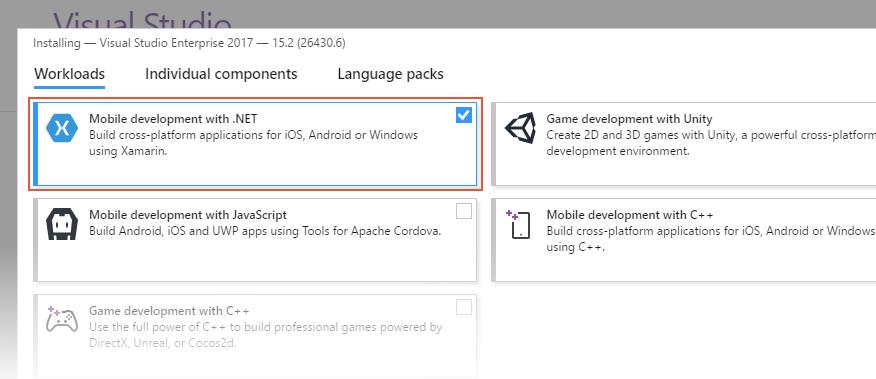
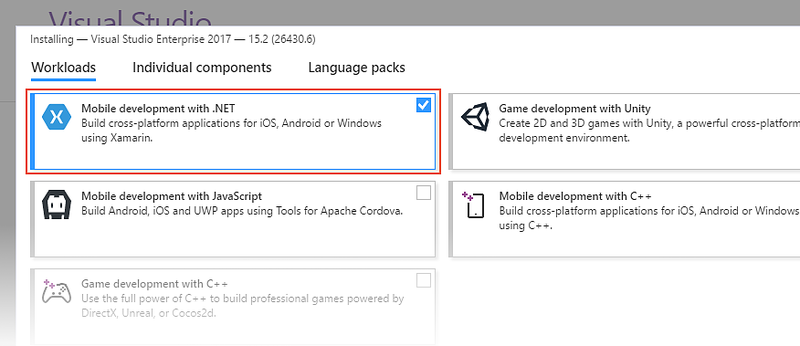
Updates to text, screens in the "Installing Xamarin in Visual Studio 2017" doc (#606)
* Updating the Xamarin installation for VS2017 doc

* Fixed a grammar error.

* Updated screenshot

* Updated some alt text

* Removed some unnecessary text

* Updated screenshot from VS2015 -> VS2017

* Text modification

diff --git a/docs/cross-platform/get-started/installation/windows.md b/docs/cross-platform/get-started/installation/windows.md
@@ -5,12 +5,9 @@ ms.prod: xamarin
 ms.assetid: E20D4463-368E-4B60-A059-F50DB8C5552D
 author: asb3993
 ms.author: amburns
-ms.date: 09/29/2017
+ms.date: 08/28/2018
 ---
-
 # Installing Xamarin in Visual Studio 2017
-
-<a name="requirements" />
 
 ## Requirements
 
@@ -22,11 +19,9 @@ The following are required for installing Xamarin in Visual Studio 2017:
 
 3. Xamarin for Visual Studio.
 
-For more information about the pre-requisites for installing
-and using Xamarin, see 
+For more information about the prerequisites for installing
+and using Xamarin, see
 [System Requirements](~/cross-platform/get-started/requirements.md).
-
-<a name="installation" />
 
 ## Installation
 
@@ -41,41 +36,35 @@ To achieve this, use the following steps:
 2. Double-click the downloaded package to start installation.
 
 3. Select the **Mobile development with .NET** workload from the
-   installation screen: 
+   installation screen:
 
-    [![Mobile development with .NET selection on the Workloads screen](windows-images/01-mobile-dev-workload-sml.png)](windows-images/01-mobile-dev-workload.png#lightbox)
+    ![Mobile development with .NET selection on the Workloads screen](windows-images/01-mobile-dev-workload.png "Mobile development with .NET selection on the Workloads screen)
 
 4. While **Mobile development with .NET** is selected, have a look at
-   the **Summary** panel on the right. Here, you can deselect mobile
-   development options that you do not want to install. By default, all
-   options shown in the following screenshot are installed (**Xamarin
-   Workbooks**, **Xamarin Profiler**, **Xamarin Remoted Simulator**,
-   **Android NDK**, **Android SDK**, **Java SE Development Kit**,
-   **Google Android Emulator**, **F# support**, and **Intel HAXM**):
+   the **Installation details** panel on the right. Here, you can deselect
+   mobile development options that you do not want to install.
 
-    ![Summary panel listing Xamarin options to install](windows-images/02-summary.png)
+    ![Installation details panel, listing Xamarin options to install](windows-images/02-summary.png "Installation details panel, listing Xamarin options to install")
 
 5. When you are ready to begin Visual Studio 2017 installation, click the
    **Install** button in the lower right-hand corner:
 
-    ![Location of installation button](windows-images/03-click-install.png)
+    ![Install button](windows-images/03-click-install.png "Install button")
 
    Depending on which edition of Visual Studio 2017 you are installing, the
-   installation process can take a long time to complete. You can use
-   the progress bars to monitor the installation:
+   installation process can take a long time to complete. Use the
+   progress bars to monitor the installation:
 
-    ![Example screenshot of progress bars during installation](windows-images/04-progress-bars.png)
+    ![Progress bars during installation](windows-images/04-progress-bars.png "Progress bars during installation")
 
 6. When Visual Studio 2017 installation has completed, click the **Launch**
    button to start Visual Studio:
 
-    ![Location of Launch button](windows-images/05-launch.png)
-
-<a name="vs2017" />
+    ![Launch button](windows-images/05-launch.png "Launch button")
 
 ### Adding Xamarin to Visual Studio 2017
 
-If Visual Studio 2017 is already installed, you can add Xamarin by
+If Visual Studio 2017 is already installed, add Xamarin by
 re-rerunning the Visual Studio 2017 installer to modify workloads (see
 [Modify Visual Studio](https://docs.microsoft.com/visualstudio/install/modify-visual-studio)
 for details). Next, follow the steps listed above to install Xamarin.
@@ -83,27 +72,23 @@ for details). Next, follow the steps listed above to install Xamarin.
 For more information about downloading and installing Visual Studio
 2017, see [Install Visual Studio 2017](https://docs.microsoft.com/visualstudio/install/install-visual-studio).
 
+### Verifying installation
 
-### Verifying Installation
-
-In Visual Studio 2017, you can verify that Xamarin is installed by 
+In Visual Studio 2017, verify that Xamarin is installed by
 clicking the **Help** menu. If Xamarin is installed, you should
 see a **Xamarin** menu item as shown in this screenshot:
 
-![Xamarin menu item displayed on the Help menu](windows-images/12-xamarin-menu-item.png)
+![Xamarin menu item on the Help menu](windows-images/12-xamarin-menu-item.png "Xamarin menu item on the Help menu")
 
-If you are using an earlier versions of Visual Studio, you can click
-**Help > About Microsoft Visual Studio** and scroll through the list of
-installed products to see if Xamarin is installed:
+You can also click **Help > About Microsoft Visual Studio** and scroll
+through the list of installed products to see if Xamarin is installed:
 
-![Visual Studio installed products screen](windows-images/13-xamarin-is-installed.png)
+![Visual Studio 2015 installed products screen](windows-images/13-xamarin-is-installed.png "Visual Visual Studio 2015 installed products screen")
 
 For more information about locating version information, see
 [Where can I find my version information and logs?](~/cross-platform/troubleshooting/questions/version-logs.md)
 
-<a name="nextsteps" />
-
-## Next Steps
+## Next steps
 
 Installing Xamarin in Visual Studio 2017 allows you to start writing code
 for your apps, but does require additional setup for building and
